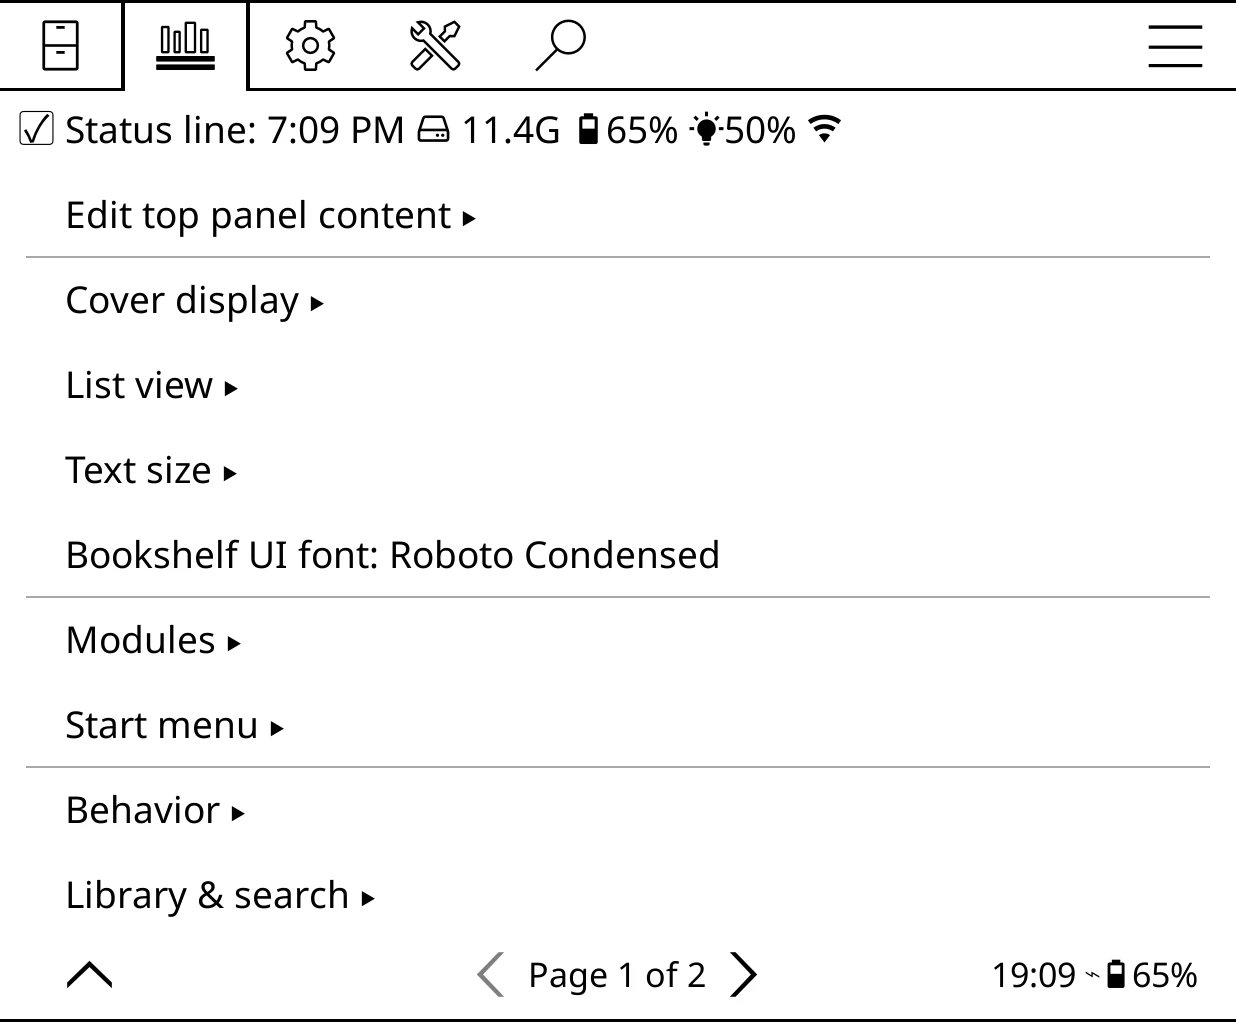
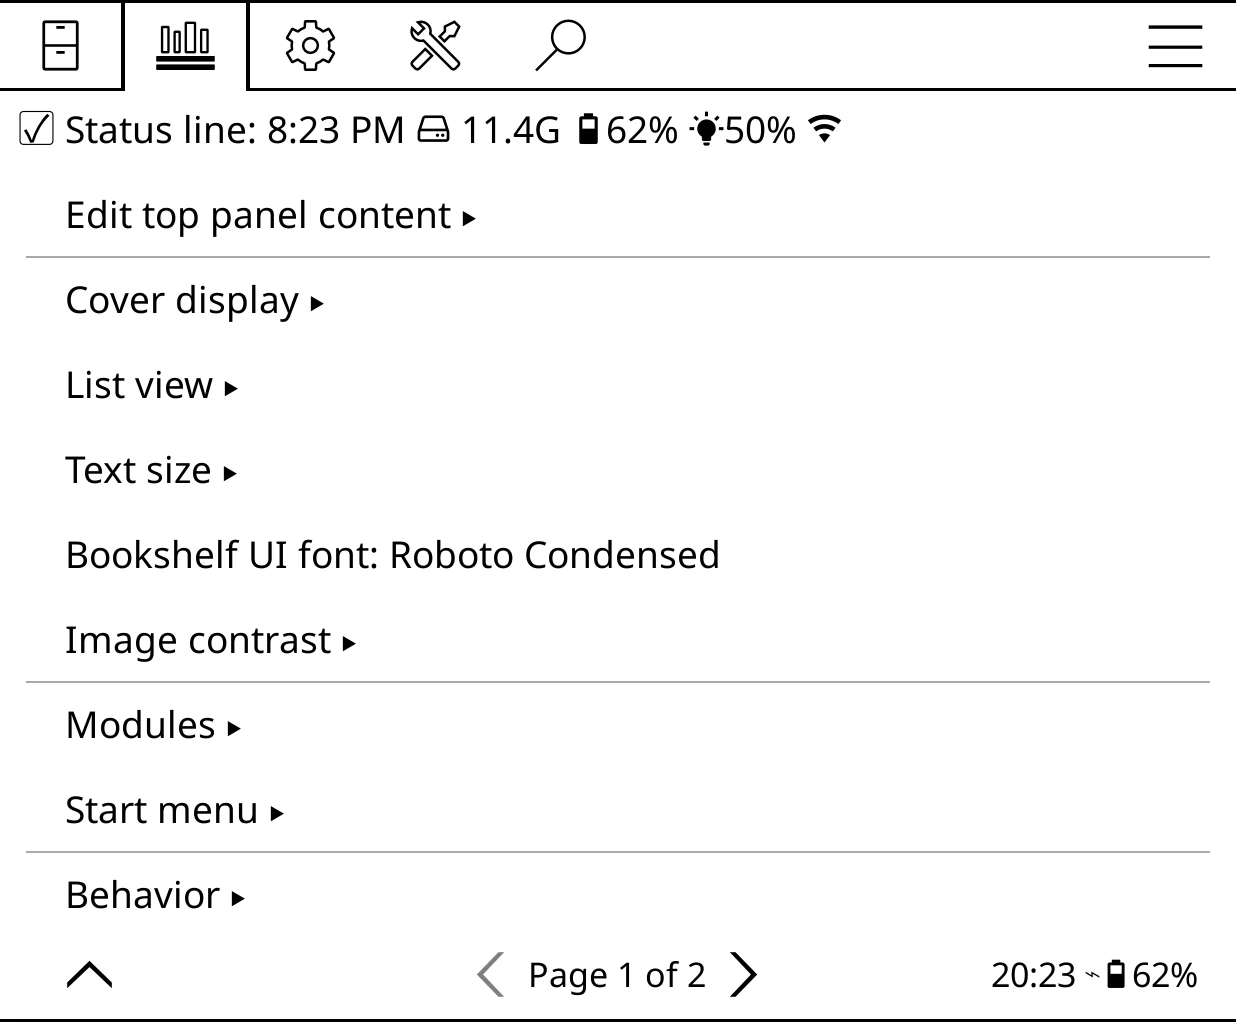
6.2: Image contrast, Footer bar, page turns behind menus, calibre switch out of beta
Claude-Session: https://claude.ai/code/session_01JgJkg2kpmXwo4V6m4aKBga

diff --git a/docs/reference/menus.md b/docs/reference/menus.md
@@ -26,6 +26,8 @@ Paths are written like **Bookshelf > Settings > Behavior**.
 | Change the text under covers | **Bookshelf > Settings > Cover display > Cover captions** |
 | Make text bigger or smaller | **Bookshelf > Settings > Text size** |
 | Turn off a Bookshelf gesture | **Bookshelf > Settings > Behavior > Bookshelf gestures** |
+| Give covers and ornaments more contrast | **Bookshelf > Settings > Image contrast** |
+| Hide the footer | **Bookshelf > Settings > Behavior > Footer bar** |
 | Put modules on the home screen | **Bookshelf > Settings > Modules** |
 | Edit the start menu | Long-press any entry in the start menu |
 | Update the plugin | **Bookshelf > Updates > Check for updates** |
@@ -163,6 +165,9 @@ A fresh install starts with four shelves: **Home** (every book under your home f
 **Panel behind Covers shelves**
 :   On Covers shelves, draws one panel behind the top panel, covers and footer instead of a plate under each title. Default: off.
 
+**Wallpaper contrast: *N%*** and **Wallpaper brightness: *N%***
+:   The wallpaper quieter or bolder, darker or lighter, from -100% to 100%. The same rows as in [Image contrast](#image-contrast); not part of any theme. Default: 0%.
+
 **Extra wallpaper folder: *folder***
 :   Another folder to load wallpapers from. Long-press to stop using it. Not part of any theme. Default: None.
 
@@ -285,7 +290,7 @@ Ornament collection
 
 !shot:side settings-menu | Bookshelf > Settings
 
-**Bookshelf > Settings**. Rows that change the top panel are greyed out unless the shelf is on screen. In order: Status line, Edit top panel content, Cover display, List view, Text size, Bookshelf UI font, Modules, Start menu, Behavior, Library & search, Advanced.
+**Bookshelf > Settings**. Rows that change the top panel are greyed out unless the shelf is on screen. In order: Status line, Edit top panel content, Cover display, List view, Text size, Bookshelf UI font, Image contrast, Modules, Start menu, Behavior, Library & search, Advanced.
 
 ### Status line
 
@@ -463,7 +468,7 @@ Used by the status line, each top panel section, each List view line and custom 
 
 !shot:side text-size-menu | Bookshelf > Settings > Text size
 
-**Bookshelf > Settings > Text size**. Each row reads its size, such as **Shelf menu: 118%**, and opens a slim page at the bottom of the screen, so you can watch the change behind it. The page's title shows the value (**Shelf menu font scale: 118%**). Under it is a slider: tap or drag the track, or use the grey cards beside it (**−5** and **+5**, or **−1** and **+1** for the shelf menu and list text, with **−10** and **+10** outside them). A tick under the track marks the default. Footer: **Cancel** (puts back the size it opened with), **Default** (100%) and **Done**. Every size starts at 100% and can go as low as 50%.
+**Bookshelf > Settings > Text size**. Each row reads its size, such as **Shelf menu: 118%**, and opens a slim page at the bottom of the screen, so you can watch the change behind it. The page's title shows the value (**Shelf menu font scale: 118%**). Under it is a slider: tap or drag the track, or use the grey cards beside it (**−5** and **+5**, or **−1** and **+1** for the shelf menu and list text, with **−10** and **+10** outside them). A tick under the track marks the default. Footer: **Cancel** (puts back the size it opened with), **Default** (100%) and **Done**. A tap outside the page is **Done**; the X and Back are **Cancel**. Swipe left or right on the shelf behind to see the change on other pages. Every size starts at 100% and can go as low as 50%.
 
 | Row | What it scales | Maximum |
 |---|---|---|
@@ -483,6 +488,21 @@ Used by the status line, each top panel section, each List view line and custom 
 
 **Bookshelf UI font: *font***
 :   The font for Bookshelf's own menus and labels. In the picker, **Default** follows KOReader's UI font; **Cancel** puts back the font it opened with and **Done** keeps the one picked. Default: Roboto Condensed (Follow KOReader if you upgraded from an older version).
+
+### Image contrast
+
+**Bookshelf > Settings > Image contrast**. Each row opens a slim slider page like the [text sizes](#text-size) (steps of 5 and 20), so you see the change on the shelf behind it. Swipe left or right on the shelf to judge it on other pages. All three start at 0%, which leaves the pictures as they are.
+
+**Covers and ornaments contrast boost: *N%***
+:   Deepens the shadows and lifts the light parts of covers, spines and ornaments, around each picture's own middle grey, which can help on a screen with few greys. 0% to 100%. Default: 0%.
+
+**Wallpaper contrast: *N%***
+:   The wallpaper quieter (down to -100%, one flat grey) or bolder (up to 100%). Default: 0%.
+
+**Wallpaper brightness: *N%***
+:   The wallpaper darker (down to -100%, black) or lighter (up to 100%, white). Default: 0%.
+
+The two wallpaper rows are also under **Theme > Wallpaper**. None of the three is part of a theme.
 
 ### Modules
 
@@ -533,6 +553,9 @@ The buttons that open the start menu while reading are under **Advanced > While 
 
 **Double tap to open books**
 :   Opening a book from the top panel, or from a cover on a full screen shelf, takes two taps; the first selects it. Default: off.
+
+**Footer bar: *choice***
+:   **Show**; **Hide**, where the shelf uses the bar's space (swipe to turn pages, and open the menu from KOReader's menu or a gesture); or **Invisible buttons**, where the bar isn't drawn but its buttons still work where they were, and moving into it with the keys shows it. Both hidden choices show the bar while you select books. Default: Show.
 
 **Page turn animation: *speed***
 :   A wipe when you turn shelf pages (e-ink only): **Off**, **Fast**, **Normal** or **Slow**. Default: Fast.
@@ -632,7 +655,7 @@ The buttons that open the start menu while reading are under **Advanced > While 
 **Reset top panel content to defaults**
 :   After asking, puts back the fresh-install top panel layout and fonts.
 
-**BETA: Read calibre metadata.calibre**
+**Read calibre metadata.calibre**
 :   Reads Calibre's `metadata.calibre` file from your home folder or the folder above it. Default: off. See [Calibre, Kindle and Kobo libraries](../organise/other-libraries.md).
 
 ## The shelf editor
@@ -880,6 +903,8 @@ Start it from a book's **Select**, a group's **Select *N***, or **Settings > Lib
 ### Footer
 
 !shot shelf-footer | The footer
+
+**Settings > Behavior > Footer bar** can hide it, or keep its buttons but not draw them.
 
 Chevrons
 :   First, previous, next and last page. Long-press previous or next to skip ten pages.

diff --git a/docs/reference/whats-new.md b/docs/reference/whats-new.md
@@ -4,9 +4,26 @@ description: What's new in recent versions of Bookshelf, with links to where eac
 
 # What's new
 
-<span class="tag">These pages describe Bookshelf 6.1</span>
+<span class="tag">These pages describe Bookshelf 6.2</span>
 
 Full release notes for every version are on [GitHub Releases](https://github.com/AndyHazz/bookshelf.koplugin/releases), and in the app under **Bookshelf > Updates > View changelog**.
+
+## 6.2
+
+**Image contrast**
+:   **Covers and ornaments contrast boost** deepens the darks and lifts the lights of covers, spines and ornaments, for screens with few greys. **Wallpaper contrast** and **Wallpaper brightness** adjust the wallpaper on its own. All start at 0%. [More](../customise/layout.md#image-contrast)
+
+**Turn pages behind menus**
+:   Swipe left or right on the shelf behind a Bookshelf menu or slider page to turn its page, so you can see a change on more books without closing it. A tap outside a slider page keeps its value. [More](../use/navigation.md#pages)
+
+**Footer bar**
+:   **Settings > Behavior > Footer bar**: **Show**, **Hide** (the shelf uses its space) or **Invisible buttons** (the buttons still work where they were). [More](../reference/menus.md#behavior)
+
+**Fewer flashes**
+:   Closing KOReader's menu over the shelf, closing the Theme library, and moving between shelves with different themes no longer flash the whole screen.
+
+**Calibre and OPDS**
+:   **Read calibre metadata.calibre** is no longer marked beta. `%calibre{pubdate}` gives a book's publication year in an OPDS catalogue without it. [More](../reference/tokens.md)
 
 ## 6.1
 

diff --git a/docs/customise/layout.md b/docs/customise/layout.md
@@ -64,7 +64,7 @@ Each opens a slim page at the bottom of the screen, so the shelf behind shows th
 
 !shot size-slider | A size page: the slider, its steps, and Default.
 
- Drag the slider or tap the steps either side of it, then **Done** to keep it, **Default** to go back to 100%, or **Cancel** to leave it as it was.
+ Drag the slider or tap the steps either side of it, then **Done** to keep it, **Default** to go back to 100%, or **Cancel** to leave it as it was. A tap outside the page keeps it too. Swipe left or right on the shelf behind to see the change on other pages.
 
 ## Fonts
 
@@ -74,6 +74,15 @@ Bookshelf comes with three fonts: **Roboto Condensed** for its interface, **Inte
 
 - **Bookshelf > Settings > Bookshelf UI font** sets the interface font, or **Follow KOReader**.
 - Each top panel and list line has its own font, in its [line editor](top-panel.md#edit-a-line).
+
+## Image contrast
+
+**Bookshelf > Settings > Image contrast** gives pictures more punch on a screen with few greys:
+
+- **Covers and ornaments contrast boost** deepens the darks and lifts the lights of covers, spines and ornaments. Each picture keeps its own middle grey, so a dark ornament stays dark and a pale cover stays pale.
+- **Wallpaper contrast** and **Wallpaper brightness** adjust the wallpaper on its own.
+
+All three start at 0%, the pictures as they are. Each opens a slider page like the text sizes; swipe left or right on the shelf behind it to see the change on other pages before you tap **Done**.
 
 ## Animations
 

diff --git a/docs/reference/gestures.md b/docs/reference/gestures.md
@@ -25,8 +25,8 @@ Most of Bookshelf's own gestures can be switched off one by one under **Bookshel
 | Double-tap a book | Opens it straight away (needs KOReader's double tap turned on) | **Double-tap a book to open it** |
 | Long-press a book or spine | The [book menu](../use/book-menu.md), on its Edit tab | **Long-press a book for its details** |
 | Long-press a stack, folder or series box | Its menu: pin it as a shelf, select its books, set its image and more | **Long-press a series, author or folder for its menu** |
-| Swipe left | Next page. On the last page, goes back up a level or on to the next shelf. | Always on |
-| Swipe right | Previous page, back up a level, or the previous shelf | Always on |
+| Swipe left | Next page. On the last page, goes back up a level or on to the next shelf. Also behind Bookshelf's menus and slider pages. | Always on |
+| Swipe right | Previous page, back up a level, or the previous shelf. Also behind Bookshelf's menus and slider pages. | Always on |
 | Swipe up | Full screen shelves: the top panel shrinks to a thin status strip | **Swipe up for full screen shelves** |
 | Swipe down (full screen) | Brings the top panel back | **Swipe down leaves full screen shelves** |
 | Swipe down | Refreshes the library (on a catalogue shelf, fetches the catalogue again) | **Swipe down on the shelf to refresh the library** |

diff --git a/docs/use/navigation.md b/docs/use/navigation.md
@@ -6,9 +6,11 @@ description: Turning pages, switching shelves, drilling into folders and series,
 
 ## Pages
 
-- **Swipe left or right** on the shelf to turn the page. The footer's arrows do the same.
+- **Swipe left or right** on the shelf to turn the page. The footer's arrows do the same. This works behind Bookshelf's own menus and slider pages too, so you can see a change on more books without closing them.
 - **Long-press an arrow** to skip ten pages.
 - The double arrows jump to the **first** and **last** page.
+
+**Settings > Behavior > Footer bar** can hide the footer and give its space to the shelf, or keep its buttons where they are without drawing them (**Invisible buttons**).
 
 On e-ink, a page turn plays as a quick wipe across the screen. Its speed is under **Bookshelf > Settings > Behavior > Page turn animation**: **Off**, **Fast**, **Normal** or **Slow**.
 

diff --git a/docs/reference/tokens.md b/docs/reference/tokens.md
@@ -170,7 +170,7 @@ In the top panel and status line, `[font=NAME]` sets the font for the whole sect
 | `%added` | Date the file was added | *2026-05-04* |
 | `%lang` | Language | *en* |
 | `%description` | The blurb, with formatting removed | |
-| `%calibre{name}` | Any Calibre column, including your own. `%calibre{pubdate}` gives the publication year. Needs **BETA: Read calibre metadata.calibre**. | *1965* |
+| `%calibre{name}` | Any Calibre column, including your own. `%calibre{pubdate}` gives the publication year. Needs **Read calibre metadata.calibre**, except a book's publication year in an OPDS catalogue. | *1965* |
 | `%quote` | A random highlight from this book, in quotation marks | *"Fear is the mind-killer."* |
 | `%quote_source` | The book and author of `%quote` | *Dune, Frank Herbert* |
 | `%quote_page` | Page that highlight is on | *12* |

diff --git a/docs/organise/other-libraries.md b/docs/organise/other-libraries.md
@@ -6,7 +6,7 @@ description: Read Calibre's metadata, and show your Kindle or Kobo store library
 
 ## Calibre
 
-If Calibre manages your books, Bookshelf can read the `metadata.calibre` file Calibre writes when it sends books to your device. Turn on **Bookshelf > Settings > Advanced > BETA: Read calibre metadata.calibre**.
+If Calibre manages your books, Bookshelf can read the `metadata.calibre` file Calibre writes when it sends books to your device. Turn on **Bookshelf > Settings > Advanced > Read calibre metadata.calibre**.
 
 !shot calibre-setting | The Calibre switch, under Advanced
 

diff --git a/docs/customise/wallpaper-colours.md b/docs/customise/wallpaper-colours.md
@@ -35,6 +35,9 @@ Both live in the Theme menu: open KOReader's menu, then **Theme** on the Bookshe
 **Panel behind Covers shelves**
 :   One panel behind everything on a Covers shelf, instead of a strip under each title.
 
+**Wallpaper contrast** and **Wallpaper brightness**
+:   The picture quieter or bolder, darker or lighter, so a busy wallpaper can sit further back. They stay as they are whichever theme you choose. Also under **Settings > Image contrast**.
+
 </div>
 
 !clip wallpaper | Theme > Wallpaper: choosing a picture.
